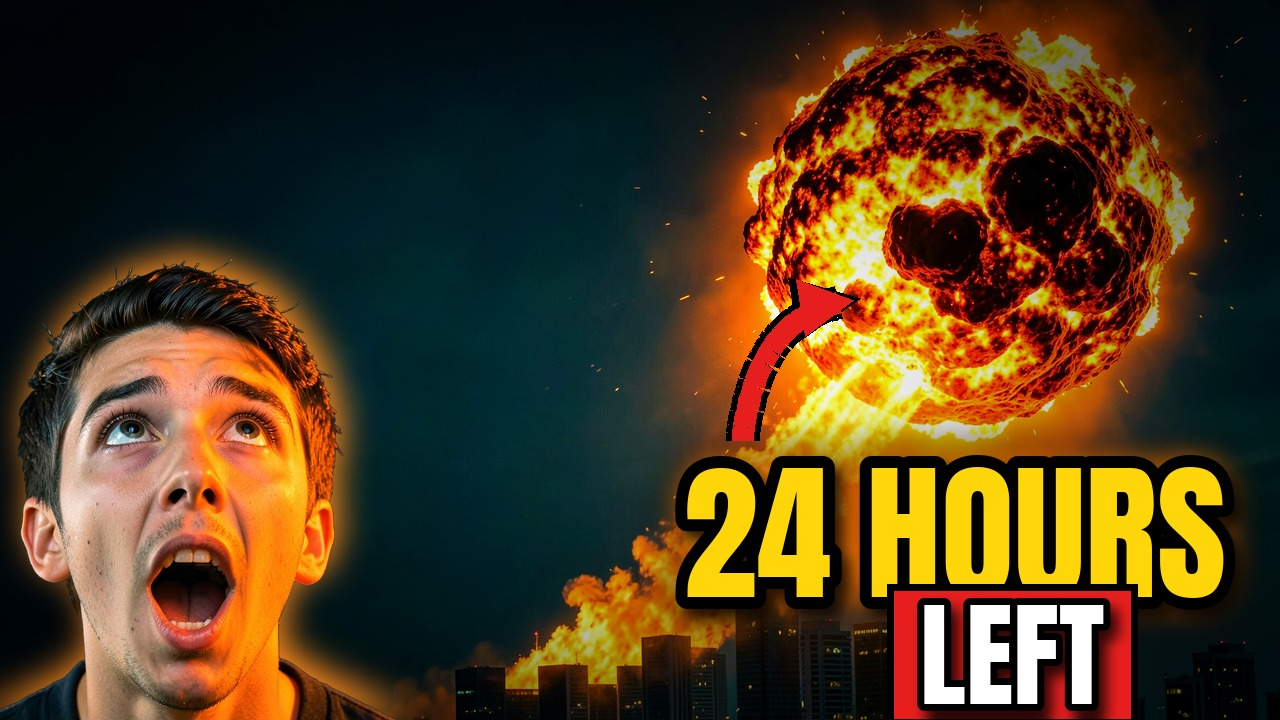
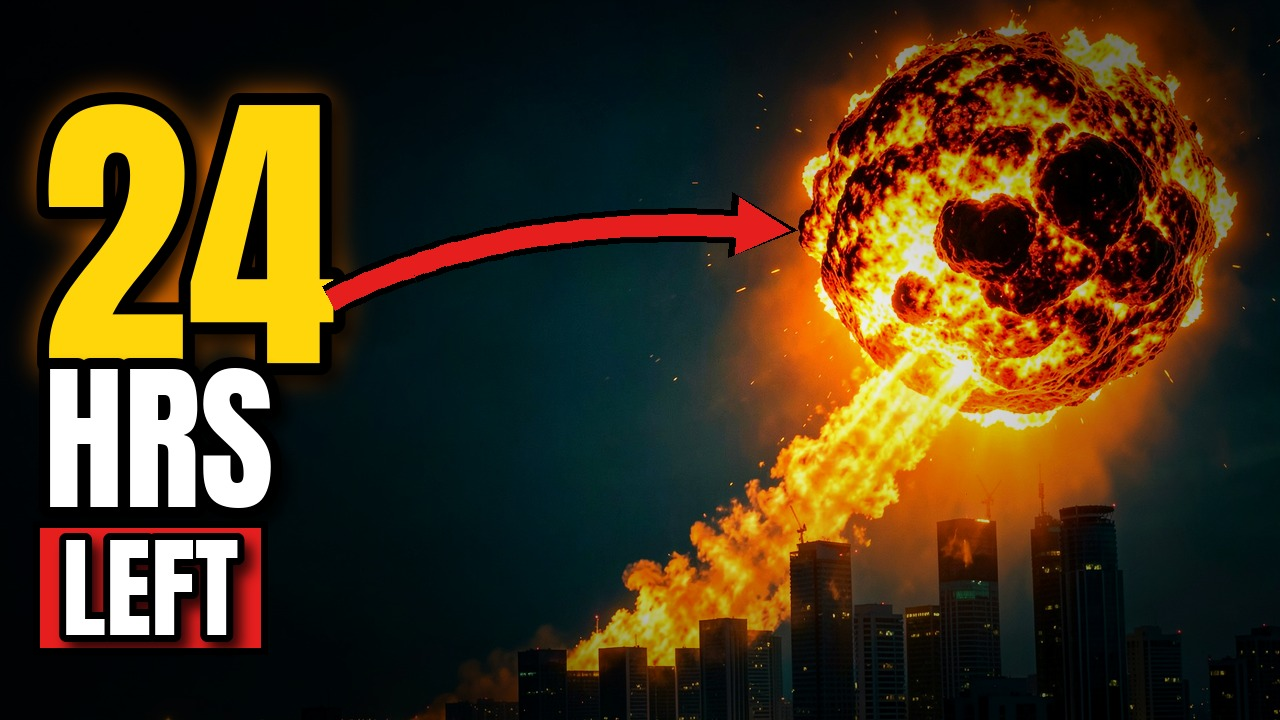
Asteroid thumbnail: no people, '24 HRS LEFT' over the city fireball; skill feedback row
Claude-Session: https://claude.ai/code/session_013mn8V1oWLpJ2jrRYtbrHaT

diff --git a/longform/asteroid-full/thumb/make_thumb.py b/longform/asteroid-full/thumb/make_thumb.py
@@ -1,8 +1,7 @@
-"""Thumbnails for the asteroid what-if video (1280x720): AI art + rembg face cutout + bold text, arrow, glow.
-Usage: python3 make_thumb.py  ->  thumbnail-24-hours.jpg, thumbnail-earth.jpg"""
+"""Thumbnail for the asteroid what-if video (1280x720): AI art + bold text, arrow, glow. No people (user rule).
+Usage: python3 make_thumb.py  ->  thumbnail-24-hours.jpg"""
 import numpy as np
 from PIL import Image, ImageDraw, ImageFilter, ImageFont, ImageEnhance
-from rembg import remove, new_session
 
 W, H = 1280, 720
 ANTON = "../../fonts/Anton-Regular.ttf"
@@ -57,54 +56,24 @@ def grade(im):
     return Image.fromarray(np.clip(a * v, 0, 255).astype(np.uint8))
 
 
-sess = new_session("isnet-general-use")
-face = remove(Image.open("art-face.jpg").convert("RGB"), session=sess)
-a = np.asarray(face).copy()
-import cv2
-al = np.clip((a[..., 3].astype(np.float32) / 255 - 0.4) / 0.4, 0, 1)   # drop matte residue
-n, lab, st, _ = cv2.connectedComponentsWithStats((al > 0).astype(np.uint8))
-keep = 1 + int(np.argmax(st[1:, cv2.CC_STAT_AREA]))                    # keep only the person (largest blob)
-a[..., 3] = (al * (lab == keep) * 255).astype(np.uint8)
-face = Image.fromarray(a)
-face = face.crop(face.getbbox())
-
-
-def place_face(bg, height, x, glow=(255, 140, 30)):
-    f = face.resize((int(face.width * height / face.height), height), Image.LANCZOS)
-    P = 60                                            # pad so the glow is not clipped into a box at the layer edge
-    al = Image.new("L", (f.width + 2 * P, f.height + 2 * P), 0)
-    al.paste(f.split()[3], (P, P))
-    rim = Image.new("RGBA", al.size, (*glow, 0))
-    rim.putalpha(al.filter(ImageFilter.GaussianBlur(16)))
-    bg.alpha_composite(rim, (x + 6 - P, H - f.height - 2 - P)) if x + 6 - P >= 0 else \
-        bg.alpha_composite(rim.crop((P - x - 6, 0, rim.width, rim.height)), (0, H - f.height - 2 - P))
-    bg.alpha_composite(f, (x, H - f.height + 8))
-
-
 def tw(text, size, stroke=12):
     b = ImageFont.truetype(ANTON, size).getbbox(text, stroke_width=stroke)
     return b[2] - b[0], b[3]
 
 
-# --- A: fireball over the city (right), shocked face (bottom-left), "24 HOURS LEFT" right-aligned + arrow up to it
-bg = grade(cover("art-a.jpg", fx=0.85, fy=0.0, zoom=1.15)).convert("RGBA")
-place_face(bg, 470, -40)
-w1, h1 = tw("24 HOURS", 150)
-x1 = W - 30 - w1
-outlined(bg, (x1, 420), "24 HOURS", 150, YELLOW, glow=(255, 120, 0))
-fl = ImageFont.truetype(ANTON, 115)
-tx, ty = x1 + w1 - 330, 568
+# --- City: fireball over the city, no people. "24 HRS LEFT" on the left, red arrow to the asteroid.
+bg = grade(cover("art-a.jpg", fx=0.55, fy=0.0, zoom=1.12)).convert("RGBA")
+dark = Image.new("RGBA", (W, H), (0, 0, 0, 0))                     # darken the left for text contrast
+ImageDraw.Draw(dark).rectangle([0, 0, 520, H], fill=(0, 0, 0, 120))
+bg.alpha_composite(dark.filter(ImageFilter.GaussianBlur(90)))
+outlined(bg, (40, 10), "24", 300, YELLOW, glow=(255, 120, 0))
+outlined(bg, (44, 318), "HRS", 160, WHITE, stroke=11)
+fl = ImageFont.truetype(ANTON, 110)
+tx, ty = 62, 505
 bb = fl.getbbox("LEFT", stroke_width=7)
 d = ImageDraw.Draw(bg)
-d.rectangle([tx + bb[0] - 26, ty + bb[1] - 14, tx + bb[2] + 26, ty + bb[3] + 14], fill=(*RED, 255), outline=(0, 0, 0, 255), width=7)
-outlined(bg, (tx, ty), "LEFT", 115, WHITE, stroke=7)
-arrow(bg, (x1 + 60, 440), (x1 + 170, 300))
+d.rectangle([tx + bb[0] - 22, ty + bb[1] - 12, tx + bb[2] + 22, ty + bb[3] + 12], fill=(*RED, 255), outline=(0, 0, 0, 255), width=7)
+outlined(bg, (tx, ty), "LEFT", 110, WHITE, stroke=7)
+arrow(bg, (330, 300), (790, 230))
 bg.convert("RGB").save("thumbnail-24-hours.jpg", quality=92)
-
-# --- B: Earth being hit (right), shocked face (bottom-left), "WHAT IF?"
-bg = grade(cover("art-c.jpg", fx=1.0, fy=0.5, zoom=1.3)).convert("RGBA")
-place_face(bg, 470, -40)
-w1, _ = tw("WHAT IF?", 170)
-outlined(bg, (W - 30 - w1, 500), "WHAT IF?", 170, YELLOW, glow=(255, 120, 0))
-bg.convert("RGB").save("thumbnail-earth.jpg", quality=92)
 print("ok")

diff --git a/.claude/skills/longform-video/SKILL.md b/.claude/skills/longform-video/SKILL.md
@@ -20,6 +20,7 @@ renders in `longform/output/`. Sample to copy from: `longform/spotlight-effect/`
 | — | "not fully AI images" | Mix: roughly 35% AI images, 35% stock video, 30% motion graphics |
 | — | "high user retention edit in audio and visuals" | Every cut has a transition SFX; every reveal has a graphic + hit |
 | 1 | "duration not exceeding 20 minutes, 10–20 is good" | Aim for ~12–14 min (≈1,900–2,200 words at this voice's ~2.8 w/s); check the total before rendering |
+| What-if thumbnail | "do not add human or realistic person in thumbnail" | Thumbnails: no people or realistic faces. Use the subject itself (e.g. fireball over a city) + 2–3 huge words + red arrow (`asteroid-full/thumb/make_thumb.py`) |
 | What-if sample | rejected a 3D/JavaScript-scene-animation version | No 3D/JS scene animation: stock + AI stills with Ken Burns/punch-ins + bold kinetic text, a cut every 2–3 s, full sound design |
 
 ## "What if" videos (non-psychology, e.g. `asteroid-sample/`)
